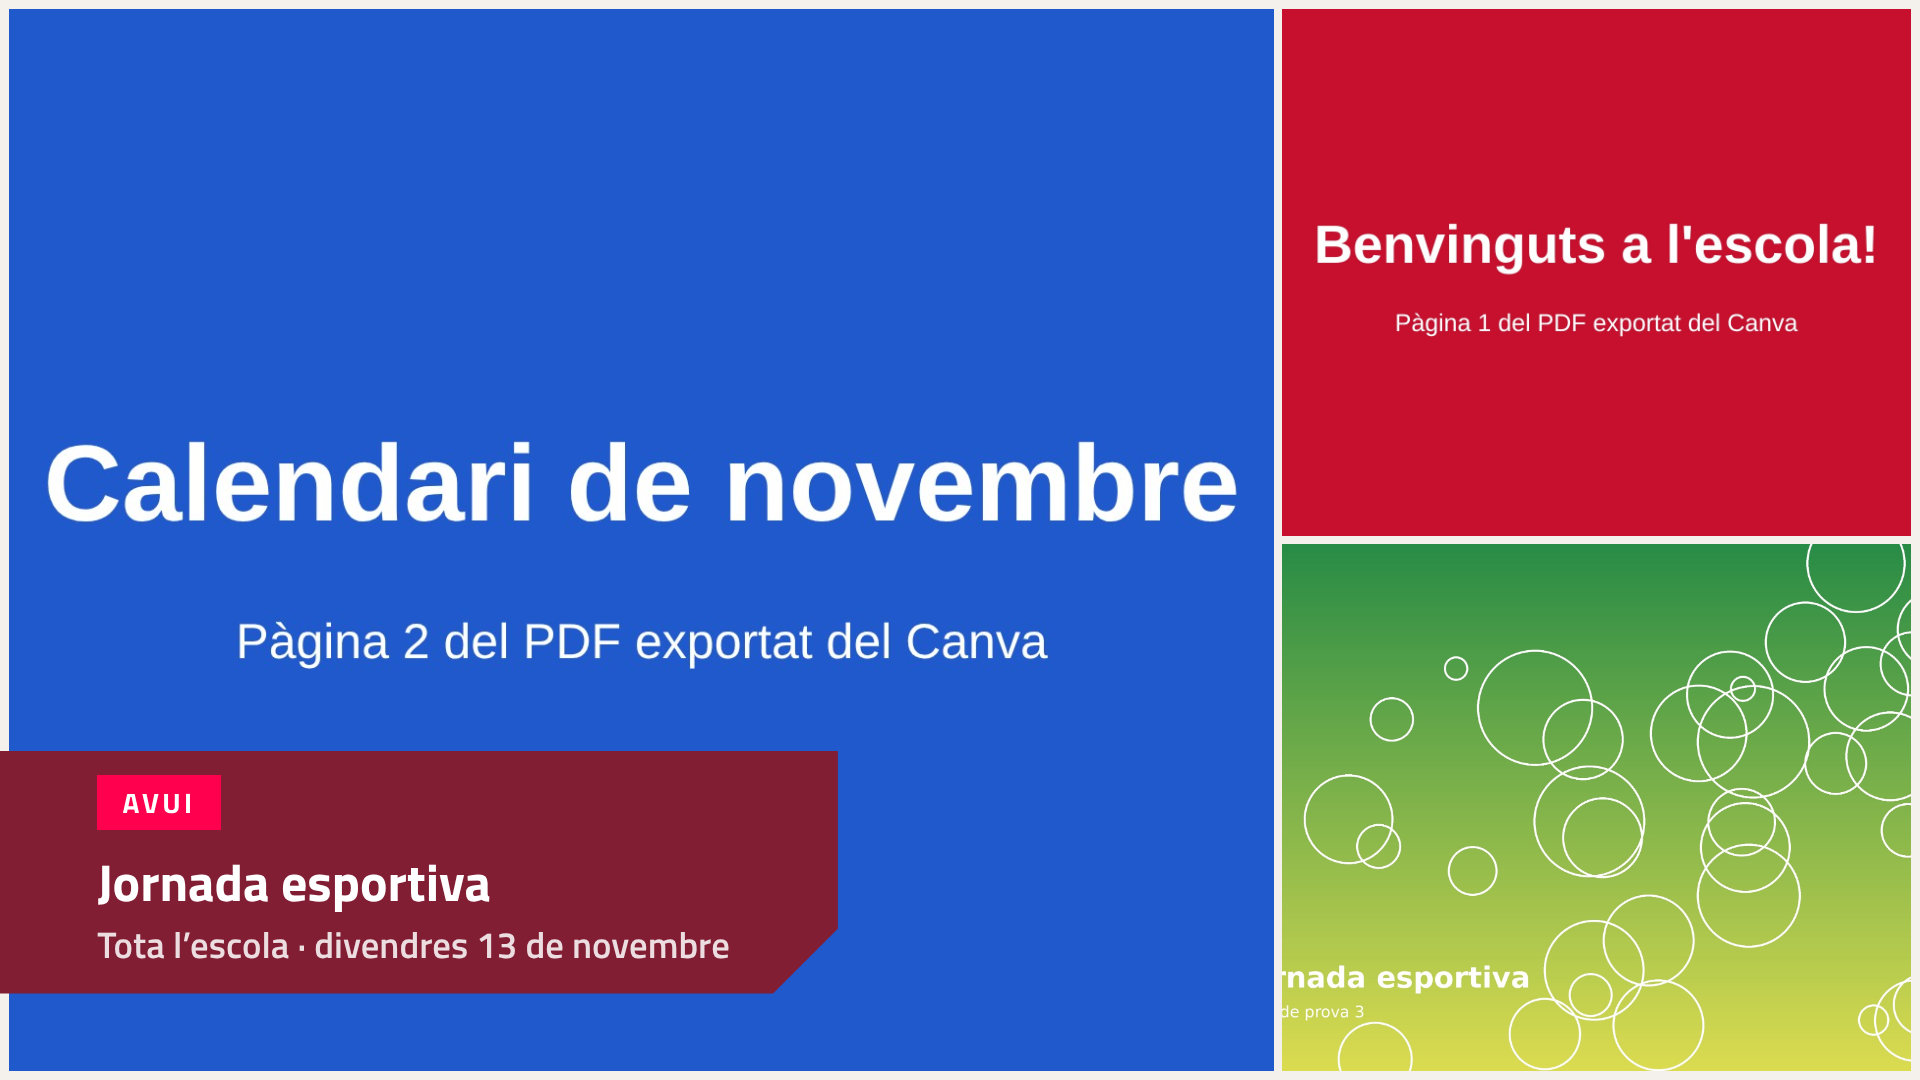
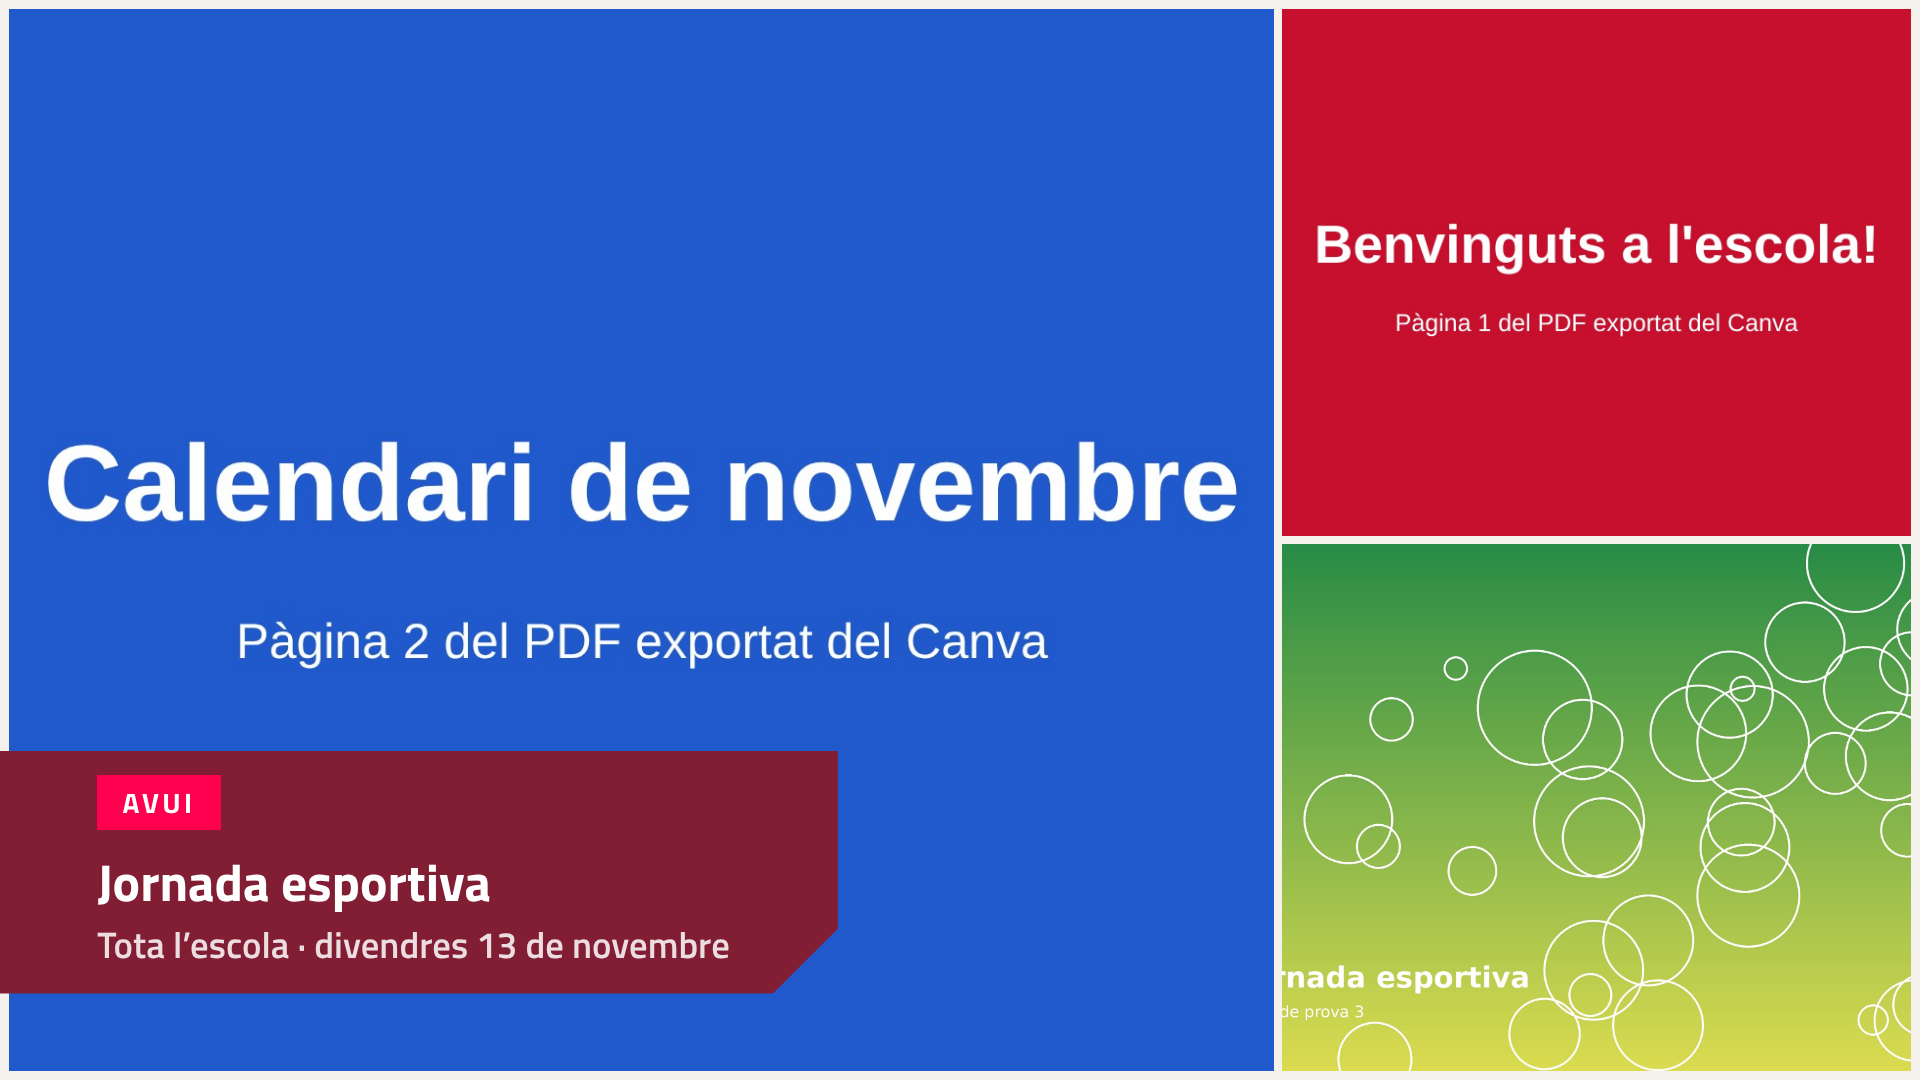
Fotos ben ajustades a les teles antigues: mida calculada a mà
Els navegadors antics de les teles no tenien «background-size: cover» ni
«object-fit» i mostraven les fotos del collage repetides. Ara el reproductor
calcula la mida i la posició de cada foto (collage, plantilla foto, fotos soles
i fons difuminat).

Claude-Session: https://claude.ai/code/session_01X8vwkzjFFoknxysTtiBFhw

diff --git a/comu/diapos.js b/comu/diapos.js
@@ -89,8 +89,7 @@
       n.appendChild(logo(ctx, tpl === 'granat'));
     } else if (tpl === 'foto') {
       var f = el('div', 'dp-foto');
-      f.style.backgroundImage = 'url("' + ctx.urlMitja(t.bgMediaId) + '")';
-      f.style.backgroundPosition = D.posicio(t.focus);
+      f.appendChild(D.omple(ctx.urlMitja(t.bgMediaId), 'cover', t.focus));
       // Foto horitzontal: a tota la pantalla, amb el bloc granat a sobre.
       // Foto vertical: només a la meitat dreta (així no s'ha d'ampliar tant).
       var ample = t.fotoMode === 'ample' || (t.fotoMode !== 'dreta' && D.esHoritzontal(ctx, t.bgMediaId));
@@ -234,7 +233,7 @@
     var lletres = 'abcdef';
     fotos.slice(0, 6).forEach(function (id, i) {
       var c = el('div', 'dp-collage-foto');
-      c.style.backgroundImage = 'url("' + ctx.urlMitja(id) + '")';
+      c.appendChild(D.omple(ctx.urlMitja(id), 'cover'));
       graella.appendChild(c);
     });
     n.appendChild(graella);
@@ -271,6 +270,44 @@
     return m.w / m.h >= 1.15;
   };
 
+  /* ---------- Fotos que omplen un requadre ----------
+   * No fem servir «background-size: cover» ni «object-fit»: els navegadors de teles antigues
+   * no els tenen o els fan malament (fotos repetides o deformades). Calculem a mà la mida i la
+   * posició de la foto dins del requadre. */
+  D.omple = function (url, mode, focus) {
+    var caixa = el('div', 'dp-omple');
+    var img = document.createElement('img');
+    img.className = 'dp-omple-img'; img.alt = '';
+    img.setAttribute('data-mode', mode || 'cover');
+    img.setAttribute('data-focus', focus || '');
+    img.onload = function () { D.colloca(img); setTimeout(function () { D.colloca(img); }, 50); };
+    img.src = url;
+    caixa.appendChild(img);
+    return caixa;
+  };
+  /** Mida i posició d'una foto dins del seu requadre («cover»: l'omple; «contain»: hi cap sencera). */
+  D.colloca = function (img) {
+    var caixa = img.parentNode;
+    if (!caixa) return;
+    var W = caixa.clientWidth, H = caixa.clientHeight, w = img.naturalWidth, h = img.naturalHeight;
+    if (!W || !H || !w || !h) return;
+    var mode = img.getAttribute('data-mode') || 'cover', focus = img.getAttribute('data-focus') || '';
+    var k = mode === 'contain' ? Math.min(W / w, H / h) : Math.max(W / w, H / h);
+    var iw = w * k, ih = h * k;
+    var fy = focus === 'top' ? 0.18 : focus === 'bottom' ? 0.82 : 0.5;
+    var st = img.style;
+    st.position = 'absolute'; st.maxWidth = 'none'; st.maxHeight = 'none';
+    st.width = Math.round(iw) + 'px'; st.height = Math.round(ih) + 'px';
+    st.left = Math.round((W - iw) / 2) + 'px'; st.top = Math.round((H - ih) * fy) + 'px';
+    st.right = 'auto'; st.bottom = 'auto';
+  };
+  /** Torna a col·locar totes les fotos d'un tros de pantalla (p. ex. si ha canviat de mida). */
+  D.recolloca = function (arrel) {
+    if (!arrel || !arrel.querySelectorAll) return;
+    var imgs = arrel.querySelectorAll('img.dp-omple-img');
+    for (var i = 0; i < imgs.length; i++) D.colloca(imgs[i]);
+  };
+
   /** Enquadrament: quina part de la foto es veu quan s'ha de retallar. */
   D.posicio = function (focus) { return focus === 'top' ? 'center 18%' : focus === 'bottom' ? 'center 82%' : 'center center'; };
 
@@ -288,6 +325,7 @@
     if (!node || !node.clientHeight) return;
     node.classList.toggle('dp-vertical', node.clientHeight > node.clientWidth);
     if (node.classList.contains('dp-collage')) aplicaGraella(node, node.clientHeight > node.clientWidth);
+    D.recolloca(node);
     var cos = node.querySelector('.dp-cos');
     if (!cos) return;
     var pare = cos.parentElement, cs = getComputedStyle(pare);

diff --git a/pantalla/pantalla.js b/pantalla/pantalla.js
@@ -7,7 +7,7 @@
  * ===================================================================== */
 (function () {
   'use strict';
-  var VERSIO = '1.9.0';
+  var VERSIO = '1.9.1';
   var Pnt = window.Pnt;
   // Paràmetres de l'adreça (sense URLSearchParams: les teles Samsung antigues no el tenen)
   var qs = (function () {
@@ -349,7 +349,7 @@
     escenari.style.height = h + 'px';
     escenari.style.transform = 'translate(-50%,-50%) rotate(' + rot + 'deg)';
     Pnt.diapo.escala(escenari, w, h);
-    if (window.Pnt && actual && actual.capa) { var dp = actual.capa.querySelector('.dp'); if (dp) Pnt.diapo.ajusta(dp); }
+    if (window.Pnt && actual && actual.capa) { var dp = actual.capa.querySelector('.dp'); if (dp) Pnt.diapo.ajusta(dp); Pnt.diapo.recolloca(actual.capa); }
     pintaCinta();
   }
 
@@ -674,11 +674,13 @@
           if (!u) return ko(new Error('fitxer no descarregat'));
           var ajust = ajustMitja(item);
           if (meta.kind === 'image') {
-            if (ajust === 'contain') { var fb = document.createElement('div'); fb.className = 'fons-borros'; fb.style.backgroundImage = 'url("' + u + '")'; capa.appendChild(fb); }
+            if (ajust === 'contain') { var fb = Pnt.diapo.omple(u, 'cover'); fb.className += ' fons-borros'; capa.appendChild(fb); }
+            // La mida i la posició es calculen a mà (Pnt.diapo.colloca): les teles antigues no tenen «object-fit»
             var img = new Image();
-            img.className = 'mitja'; img.alt = '';
-            if (item.focus) img.style.objectPosition = Pnt.diapo.posicio(item.focus);
-            img.onload = function () { (img.decode ? img.decode() : Promise.resolve()).catch(function () {}).then(ok); };
+            img.className = 'mitja dp-omple-img'; img.alt = '';
+            img.setAttribute('data-mode', ajust === 'contain' ? 'contain' : 'cover');
+            img.setAttribute('data-focus', item.focus || '');
+            img.onload = function () { Pnt.diapo.colloca(img); (img.decode ? img.decode() : Promise.resolve()).catch(function () {}).then(ok); };
             img.onerror = function () { ko(new Error('imatge malmesa')); };
             img.src = u;
             if (item.kenburns) { capa.classList.add('kenburns'); img.style.animationDuration = img.style.webkitAnimationDuration = (d || 10) + 's'; }
@@ -759,6 +761,7 @@
     actual = { item: item, capa: capa };
     var dp = capa.querySelector('.dp');
     if (dp) Pnt.diapo.ajusta(dp);
+    Pnt.diapo.recolloca(capa);
     void capa.offsetWidth;
     capa.classList.add('visible');
     if (anterior && anterior.capa) {

diff --git a/comu/diapos.css b/comu/diapos.css
@@ -45,7 +45,10 @@
 
 /* Plantilla «foto»: foto + bloc granat amb el tall a 45° */
 .dp-t-foto { padding: 0; background: #F4F1ED; color: #fff; }
-.dp-foto { position: absolute; top: 0; right: 0; bottom: 0; left: 50%; background-size: cover; background-position: center; background-color: #D7D2CB; }
+.dp-foto { position: absolute; top: 0; right: 0; bottom: 0; left: 50%; overflow: hidden; background-color: #D7D2CB; }
+/* Foto que omple un requadre: la mida i la posició les calcula diapos.js (D.colloca) */
+.dp-omple { position: absolute; top: 0; right: 0; bottom: 0; left: 0; overflow: hidden; }
+.dp-omple-img { position: absolute; top: 0; left: 0; width: 100%; height: 100%; display: block; border: 0; }
 .dp-panell { position: absolute; top: 0; left: 0; bottom: 0; width: 50%; background: #821E34; display: flex; flex-direction: column;
   justify-content: center; padding: 9em 16em 19em 9em; -webkit-clip-path: polygon(0 0, 100% 0, 100% calc(100% - 30em), calc(100% - 30em) 100%, 0 100%); clip-path: polygon(0 0, 100% 0, 100% calc(100% - 30em), calc(100% - 30em) 100%, 0 100%); }
 .dp-t-foto .dp-peu { color: rgba(255,255,255,.82); }
@@ -105,7 +108,7 @@
 /* Collage: les fotos manen; separacions fines de color paper */
 .dp-collage { padding: 0; background: #F4F1ED; }
 .dp-collage-graella { position: absolute; top: .45em; right: .45em; bottom: .45em; left: .45em; }
-.dp-collage-foto { position: absolute; background-size: cover; background-position: center; background-color: #D7D2CB;
+.dp-collage-foto { position: absolute; overflow: hidden; background-color: #D7D2CB;
   border: .45em solid #F4F1ED; -webkit-box-sizing: border-box; box-sizing: border-box; background-clip: padding-box; }
 .dp-peu-etiqueta { display: inline-block; font-size: 2.6em; margin-bottom: .9em; }
 .dp-peu-foto .dp-peu-etiqueta + .dp-peu-foto-1 { margin-top: 0; }
